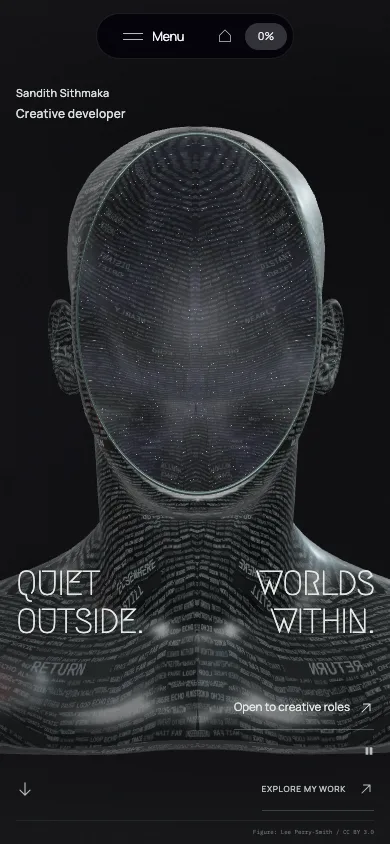
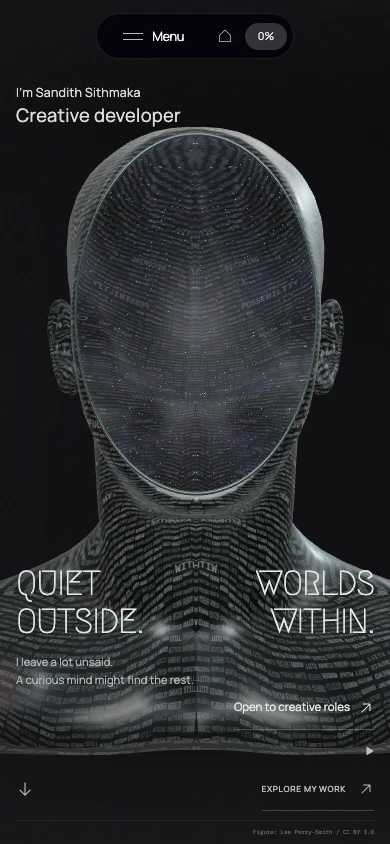
Refine hero art direction and update visual vocabulary
- Updated the description in hero art direction to clarify the role of Sandith's chosen words and phrases.
- Enhanced the `thoughtWords` array in `inner-world-scene.ts` to include additional phrases and improve clarity.
- Adjusted the word texture generation logic to ensure proper spacing and representation of both single words and phrases.
- Updated binary image assets for the inner world poster to reflect recent design changes.

Changed region(s): [[0.0, 0.0924, 1.0, 0.8934], [0.3385, 0.3081, 0.4308, 0.3389], [0.3077, 0.3697, 0.3692, 0.4005]]

diff --git a/.next/dev/static/chunks/lib_18frtg7._.js b/.next/dev/static/chunks/lib_18frtg7._.js
@@ -117,40 +117,37 @@ var __TURBOPACK__imported__module__$5b$project$5d2f$lib$2f$cosmic$2d$galaxy$2e$t
 ;
 ;
 const thoughtWords = [
+    "SANDITH",
+    "SITHMAKA",
     "UNSAID",
-    "UNSEEN",
-    "ECHO",
-    "ABSENCE",
-    "AGAIN",
-    "ALMOST",
-    "ELSEWHERE",
-    "STATIC",
+    "UNREAD",
+    "QUIET",
     "STILL",
     "WITHIN",
-    "DISTANT",
-    "SILENT",
-    "DRIFT",
-    "AFTERIMAGE",
+    "RESTLESS",
+    "WATCHFUL",
     "UNFINISHED",
-    "HOLLOW",
-    "BETWEEN",
-    "TRACE",
-    "UNHEARD",
-    "RETURN",
-    "THRESHOLD",
-    "REMNANT",
-    "OTHER",
-    "NEARLY",
-    "FRACTURE",
-    "WAIT",
-    "PAUSE",
-    "OUTSIDE",
-    "INSIDE",
-    "FAR",
-    "LOOP",
-    "ERASURE"
+    "BECOMING",
+    "WONDER",
+    "IMAGINE",
+    "FREEDOM",
+    "EXPRESSION",
+    "POSSIBILITY",
+    "WHAT IF",
+    "LOOK CLOSER",
+    "MORE THAN I SHOW",
+    "THINKING IN PIXELS",
+    "ROOM TO CREATE",
+    "LET ME MAKE IT MY WAY",
+    "THINGS I NEVER SAID",
+    "WHAT I COULDN’T SAY, I MADE",
+    "SOMEWHERE BETWEEN ART AND CODE",
+    "STILL FINDING MY OWN FORM",
+    "THIS IS WHERE THE QUIET GOES",
+    "SANDITH WAS HERE"
 ];
 const THOUGHT_WORD_COUNT = 128 * 80;
+const singleWords = thoughtWords.filter((word)=>!word.includes(" "));
 function wordTexture(size) {
     const canvas = document.createElement("canvas");
     canvas.width = canvas.height = size;
@@ -160,24 +157,30 @@ function wordTexture(size) {
     context.textBaseline = "middle";
     const cellWidth = size / 80;
     const cellHeight = size / 128;
-    // 10,240 separate word instances, with no sentences or generated personal claims.
+    // Keep the dense 10,240-word layer; phrases get wider spaces in the accent layer.
     for(let row = 0; row < 128; row++){
         for(let column = 0; column < 80; column++){
-            const word = thoughtWords[(row * 7 + column * 3 + (row % 4 === 0 ? 0 : column)) % thoughtWords.length];
+            const word = singleWords[(row * 7 + column * 3 + (row % 4 === 0 ? 0 : column)) % singleWords.length];
             context.font = `400 ${cellHeight * (.58 + (row + column) % 4 * .06)}px "IBM Plex Mono", monospace`;
             context.fillStyle = `rgb(${120 + (row * 23 + column * 17) % 130},${120 + (row * 23 + column * 17) % 130},${120 + (row * 23 + column * 17) % 130})`;
             context.fillText(word, column * cellWidth + cellWidth * .06, (row + .5) * cellHeight + Math.sin(column * 4 + row) * cellHeight * .08, cellWidth * .89);
         }
     }
-    // Occasional larger fragments surface above the dense, quieter layer.
+    // All 28 entries appear here. Separate cells keep long phrases intact and prevent overlaps.
     for(let index = 0; index < 80; index++){
-        const x = index * 337 % 1900 / 2048 * size;
-        const y = (index * 193 + 53) % 2000 / 2048 * size;
+        const word = thoughtWords[index % thoughtWords.length];
+        const fontSize = size * (word.includes(" ") ? .01 : .012);
+        context.font = `400 ${fontSize}px "IBM Plex Mono", monospace`;
+        const width = Math.min(context.measureText(word).width, size * .184);
+        const column = index % 5;
+        const row = Math.floor(index / 5);
+        const spareWidth = size * .184 - width;
+        const x = size * (column * .2 + .008) + spareWidth * (index * 7 % 11 / 10);
+        const y = size * ((row + .3 + index * 3 % 7 * .06) / 16);
         context.fillStyle = "#080909";
-        context.fillRect(x - 2, y - size * .007, size * .068, size * .014);
-        context.font = `400 ${size * .012}px "IBM Plex Mono", monospace`;
+        context.fillRect(x - size * .002, y - size * .007, width + size * .004, size * .014);
         context.fillStyle = "#eeeeee";
-        context.fillText(thoughtWords[index % thoughtWords.length], x, y, size * .064);
+        context.fillText(word, x, y, width);
     }
     const texture = new __TURBOPACK__imported__module__$5b$project$5d2f$node_modules$2f$three$2f$build$2f$three$2e$core$2e$js__$5b$app$2d$client$5d$__$28$ecmascript$29$__["CanvasTexture"](canvas);
     texture.wrapS = texture.wrapT = __TURBOPACK__imported__module__$5b$project$5d2f$node_modules$2f$three$2f$build$2f$three$2e$core$2e$js__$5b$app$2d$client$5d$__$28$ecmascript$29$__["RepeatWrapping"];

diff --git a/.next/dev/server/chunks/ssr/lib_1tmdls5._.js b/.next/dev/server/chunks/ssr/lib_1tmdls5._.js
@@ -114,40 +114,37 @@ var __TURBOPACK__imported__module__$5b$project$5d2f$lib$2f$cosmic$2d$galaxy$2e$t
 ;
 ;
 const thoughtWords = [
+    "SANDITH",
+    "SITHMAKA",
     "UNSAID",
-    "UNSEEN",
-    "ECHO",
-    "ABSENCE",
-    "AGAIN",
-    "ALMOST",
-    "ELSEWHERE",
-    "STATIC",
+    "UNREAD",
+    "QUIET",
     "STILL",
     "WITHIN",
-    "DISTANT",
-    "SILENT",
-    "DRIFT",
-    "AFTERIMAGE",
+    "RESTLESS",
+    "WATCHFUL",
     "UNFINISHED",
-    "HOLLOW",
-    "BETWEEN",
-    "TRACE",
-    "UNHEARD",
-    "RETURN",
-    "THRESHOLD",
-    "REMNANT",
-    "OTHER",
-    "NEARLY",
-    "FRACTURE",
-    "WAIT",
-    "PAUSE",
-    "OUTSIDE",
-    "INSIDE",
-    "FAR",
-    "LOOP",
-    "ERASURE"
+    "BECOMING",
+    "WONDER",
+    "IMAGINE",
+    "FREEDOM",
+    "EXPRESSION",
+    "POSSIBILITY",
+    "WHAT IF",
+    "LOOK CLOSER",
+    "MORE THAN I SHOW",
+    "THINKING IN PIXELS",
+    "ROOM TO CREATE",
+    "LET ME MAKE IT MY WAY",
+    "THINGS I NEVER SAID",
+    "WHAT I COULDN’T SAY, I MADE",
+    "SOMEWHERE BETWEEN ART AND CODE",
+    "STILL FINDING MY OWN FORM",
+    "THIS IS WHERE THE QUIET GOES",
+    "SANDITH WAS HERE"
 ];
 const THOUGHT_WORD_COUNT = 128 * 80;
+const singleWords = thoughtWords.filter((word)=>!word.includes(" "));
 function wordTexture(size) {
     const canvas = document.createElement("canvas");
     canvas.width = canvas.height = size;
@@ -157,24 +154,30 @@ function wordTexture(size) {
     context.textBaseline = "middle";
     const cellWidth = size / 80;
     const cellHeight = size / 128;
-    // 10,240 separate word instances, with no sentences or generated personal claims.
+    // Keep the dense 10,240-word layer; phrases get wider spaces in the accent layer.
     for(let row = 0; row < 128; row++){
         for(let column = 0; column < 80; column++){
-            const word = thoughtWords[(row * 7 + column * 3 + (row % 4 === 0 ? 0 : column)) % thoughtWords.length];
+            const word = singleWords[(row * 7 + column * 3 + (row % 4 === 0 ? 0 : column)) % singleWords.length];
             context.font = `400 ${cellHeight * (.58 + (row + column) % 4 * .06)}px "IBM Plex Mono", monospace`;
             context.fillStyle = `rgb(${120 + (row * 23 + column * 17) % 130},${120 + (row * 23 + column * 17) % 130},${120 + (row * 23 + column * 17) % 130})`;
             context.fillText(word, column * cellWidth + cellWidth * .06, (row + .5) * cellHeight + Math.sin(column * 4 + row) * cellHeight * .08, cellWidth * .89);
         }
     }
-    // Occasional larger fragments surface above the dense, quieter layer.
+    // All 28 entries appear here. Separate cells keep long phrases intact and prevent overlaps.
     for(let index = 0; index < 80; index++){
-        const x = index * 337 % 1900 / 2048 * size;
-        const y = (index * 193 + 53) % 2000 / 2048 * size;
+        const word = thoughtWords[index % thoughtWords.length];
+        const fontSize = size * (word.includes(" ") ? .01 : .012);
+        context.font = `400 ${fontSize}px "IBM Plex Mono", monospace`;
+        const width = Math.min(context.measureText(word).width, size * .184);
+        const column = index % 5;
+        const row = Math.floor(index / 5);
+        const spareWidth = size * .184 - width;
+        const x = size * (column * .2 + .008) + spareWidth * (index * 7 % 11 / 10);
+        const y = size * ((row + .3 + index * 3 % 7 * .06) / 16);
         context.fillStyle = "#080909";
-        context.fillRect(x - 2, y - size * .007, size * .068, size * .014);
-        context.font = `400 ${size * .012}px "IBM Plex Mono", monospace`;
+        context.fillRect(x - size * .002, y - size * .007, width + size * .004, size * .014);
         context.fillStyle = "#eeeeee";
-        context.fillText(thoughtWords[index % thoughtWords.length], x, y, size * .064);
+        context.fillText(word, x, y, width);
     }
     const texture = new __TURBOPACK__imported__module__$5b$project$5d2f$node_modules$2f$three$2f$build$2f$three$2e$core$2e$js__$5b$app$2d$ssr$5d$__$28$ecmascript$29$__["CanvasTexture"](canvas);
     texture.wrapS = texture.wrapT = __TURBOPACK__imported__module__$5b$project$5d2f$node_modules$2f$three$2f$build$2f$three$2e$core$2e$js__$5b$app$2d$ssr$5d$__$28$ecmascript$29$__["RepeatWrapping"];

diff --git a/lib/inner-world-scene.ts b/lib/inner-world-scene.ts
@@ -6,15 +6,18 @@ import { createCosmicGalaxy } from "./cosmic-galaxy";
 
 export type InnerWorldScene = { setPaused: (value: boolean) => void; dispose: () => void };
 
-// Visual vocabulary, not a diagnosis or a claim about the visitor.
+// Sandith's chosen words and phrases, preserved verbatim.
 export const thoughtWords = [
-  "UNSAID", "UNSEEN", "ECHO", "ABSENCE", "AGAIN", "ALMOST", "ELSEWHERE", "STATIC",
-  "STILL", "WITHIN", "DISTANT", "SILENT", "DRIFT", "AFTERIMAGE", "UNFINISHED", "HOLLOW",
-  "BETWEEN", "TRACE", "UNHEARD", "RETURN", "THRESHOLD", "REMNANT", "OTHER", "NEARLY",
-  "FRACTURE", "WAIT", "PAUSE", "OUTSIDE", "INSIDE", "FAR", "LOOP", "ERASURE"
+  "SANDITH", "SITHMAKA", "UNSAID", "UNREAD", "QUIET", "STILL", "WITHIN", "RESTLESS",
+  "WATCHFUL", "UNFINISHED", "BECOMING", "WONDER", "IMAGINE", "FREEDOM", "EXPRESSION", "POSSIBILITY",
+  "WHAT IF", "LOOK CLOSER", "MORE THAN I SHOW", "THINKING IN PIXELS", "ROOM TO CREATE",
+  "LET ME MAKE IT MY WAY", "THINGS I NEVER SAID", "WHAT I COULDN’T SAY, I MADE",
+  "SOMEWHERE BETWEEN ART AND CODE", "STILL FINDING MY OWN FORM",
+  "THIS IS WHERE THE QUIET GOES", "SANDITH WAS HERE"
 ];
 
 export const THOUGHT_WORD_COUNT = 128 * 80;
+const singleWords = thoughtWords.filter(word => !word.includes(" "));
 
 function wordTexture(size: number) {
   const canvas = document.createElement("canvas");
@@ -25,24 +28,30 @@ function wordTexture(size: number) {
   context.textBaseline = "middle";
   const cellWidth = size / 80;
   const cellHeight = size / 128;
-  // 10,240 separate word instances, with no sentences or generated personal claims.
+  // Keep the dense 10,240-word layer; phrases get wider spaces in the accent layer.
   for (let row = 0; row < 128; row++) {
     for (let column = 0; column < 80; column++) {
-      const word = thoughtWords[(row * 7 + column * 3 + (row % 4 === 0 ? 0 : column)) % thoughtWords.length];
+      const word = singleWords[(row * 7 + column * 3 + (row % 4 === 0 ? 0 : column)) % singleWords.length];
       context.font = `400 ${cellHeight * (.58 + ((row + column) % 4) * .06)}px "IBM Plex Mono", monospace`;
       context.fillStyle = `rgb(${120 + (row * 23 + column * 17) % 130},${120 + (row * 23 + column * 17) % 130},${120 + (row * 23 + column * 17) % 130})`;
       context.fillText(word, column * cellWidth + cellWidth * .06, (row + .5) * cellHeight + Math.sin(column * 4 + row) * cellHeight * .08, cellWidth * .89);
     }
   }
-  // Occasional larger fragments surface above the dense, quieter layer.
+  // All 28 entries appear here. Separate cells keep long phrases intact and prevent overlaps.
   for (let index = 0; index < 80; index++) {
-    const x = ((index * 337) % 1900) / 2048 * size;
-    const y = ((index * 193 + 53) % 2000) / 2048 * size;
+    const word = thoughtWords[index % thoughtWords.length];
+    const fontSize = size * (word.includes(" ") ? .01 : .012);
+    context.font = `400 ${fontSize}px "IBM Plex Mono", monospace`;
+    const width = Math.min(context.measureText(word).width, size * .184);
+    const column = index % 5;
+    const row = Math.floor(index / 5);
+    const spareWidth = size * .184 - width;
+    const x = size * (column * .2 + .008) + spareWidth * ((index * 7 % 11) / 10);
+    const y = size * ((row + .3 + (index * 3 % 7) * .06) / 16);
     context.fillStyle = "#080909";
-    context.fillRect(x - 2, y - size * .007, size * .068, size * .014);
-    context.font = `400 ${size * .012}px "IBM Plex Mono", monospace`;
+    context.fillRect(x - size * .002, y - size * .007, width + size * .004, size * .014);
     context.fillStyle = "#eeeeee";
-    context.fillText(thoughtWords[index % thoughtWords.length], x, y, size * .064);
+    context.fillText(word, x, y, width);
   }
   const texture = new THREE.CanvasTexture(canvas);
   texture.wrapS = texture.wrapT = THREE.RepeatWrapping;

diff --git a/docs/hero-art-direction.md b/docs/hero-art-direction.md
@@ -1,6 +1,6 @@
 # A world within
 
-A large centered, faceless human bust carrying 10,240 single-word instances plus 80 larger accents. The vocabulary is visual expression, not a diagnosis or invented personal history.
+A large centered, faceless human bust carrying 10,240 single-word instances plus 80 larger accents. Sandith's 28 chosen words and phrases are defined verbatim in `thoughtWords`. The 16 single words form the dense texture; the larger accents include all 28 entries, with wider spaces for complete phrases.
 
 The scanned inner cranium forms a closed, curved back wall. Its black cosmic lining carries faint stars and slow nebula texture beneath the visible words. A separate transparent film across the face retains restrained moving reflections. The figure has tiny idle motion and responds subtly to the pointer. There is no floating globe.
 
